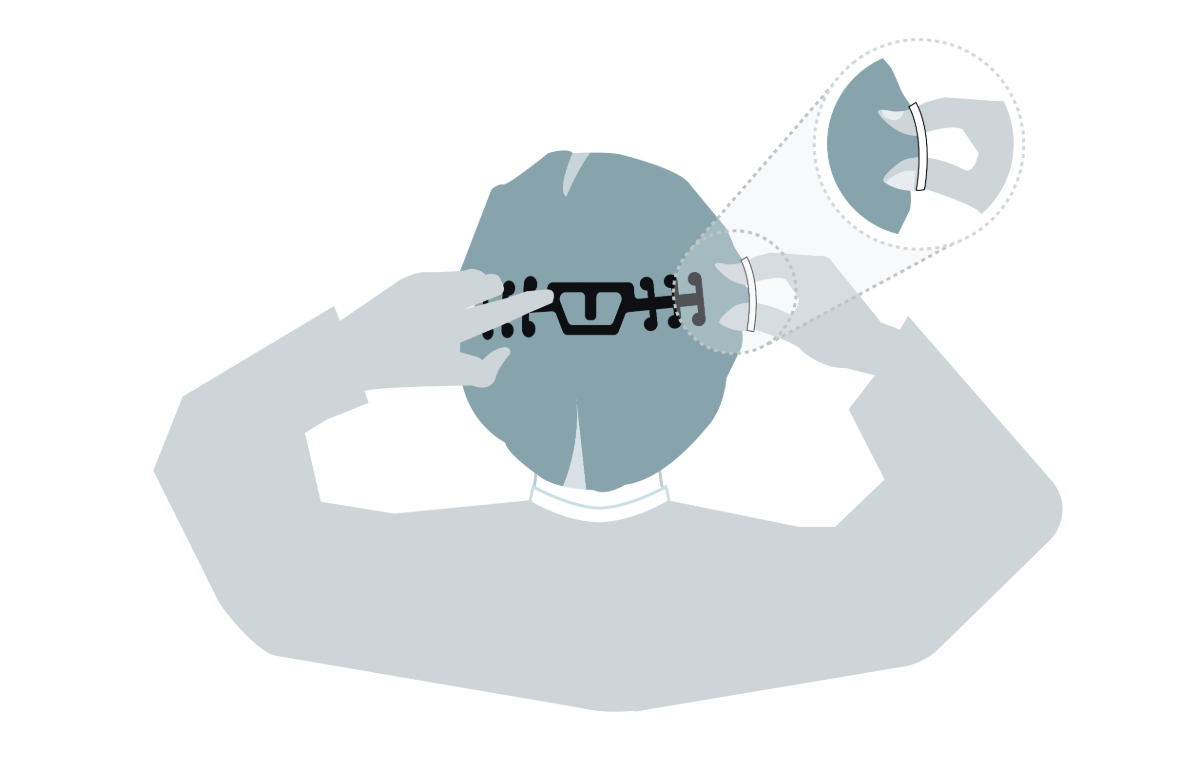
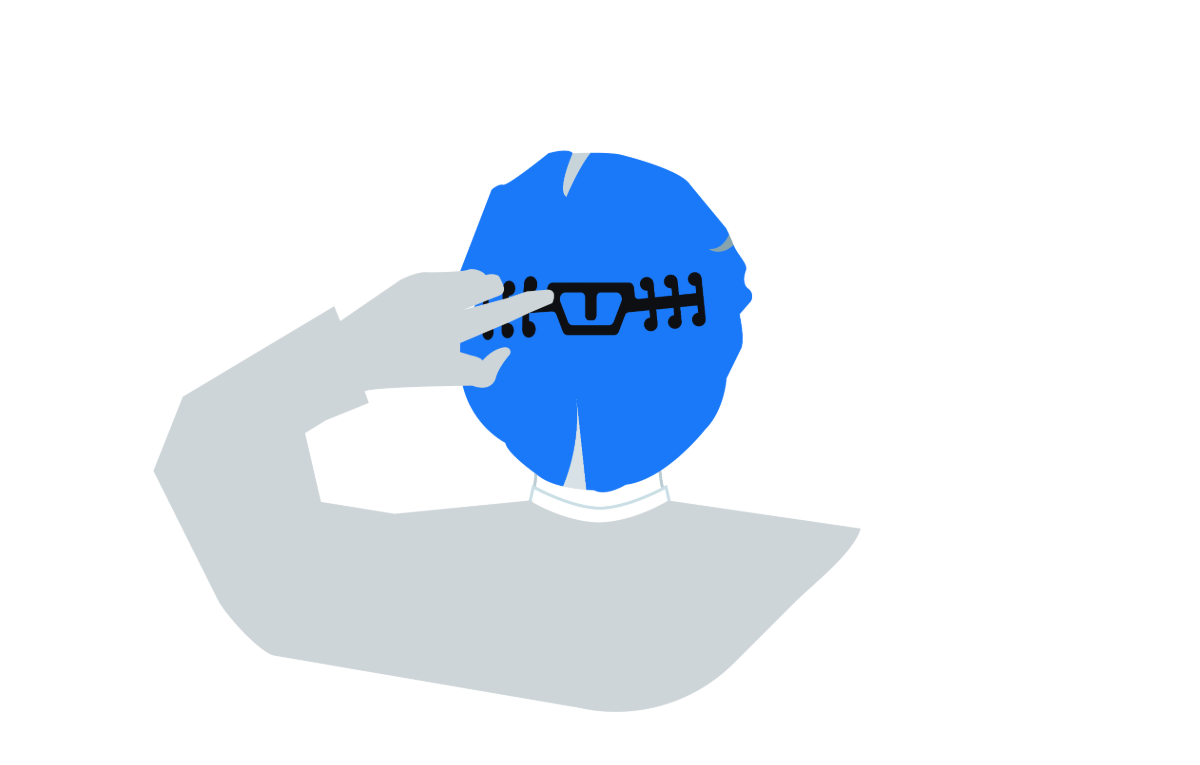
updated instruction illustrations, added cleaning step

Changed region(s): [[0.37, 0.1804, 0.8942, 0.932], [0.6783, 0.0601, 0.8633, 0.3307]]

diff --git a/src/pages/index.js b/src/pages/index.js
@@ -103,6 +103,13 @@ export default class IndexPage extends React.Component {
                   <p className="text-muted mb-0">{this.langData.instructions.steps[3].description}</p>
                 </div>
               </div>
+              <div className="col-lg-12 col-md-12 text-center">
+                <div className="mt-5">
+                <img className="instruction" src="/img/instructions/5.png"/>
+                  <h3 className="h4 mb-2">{this.langData.instructions.steps[4].title}</h3>
+                  <p className="text-muted mb-0">{this.langData.instructions.steps[4].description}</p>
+                </div>
+              </div>
             </div>
           </div>
         </section>

diff --git a/src/lang/nl/index.js b/src/lang/nl/index.js
@@ -31,6 +31,10 @@ const Lang = {
             {
                 title: '4. Zorg dat het lekker zit',
                 description: 'Je kunt aanpassen hoe strak de EarSaver zit.'
+            },
+            {
+                title: '5. Maak schoon',
+                description: 'Na gebruik kan de EarSaver makkelijk schoongemaakt worden met alcohol.'
             }
         ]
     },

diff --git a/src/lang/en/index.js b/src/lang/en/index.js
@@ -31,6 +31,10 @@ const Lang = {
             {
                 title: '4. Adjust for comfort',
                 description: 'Adjust the tightness and placement of the EarSaver.'
+            },
+            {
+                title: '5. Clean after use',
+                description: 'Easily clean the EarSaver using desinfecting alcohol.'
             }
         ]
     },
